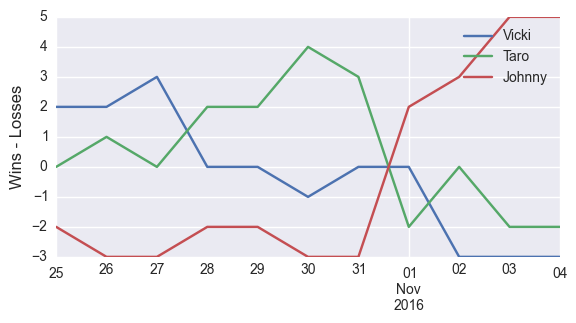
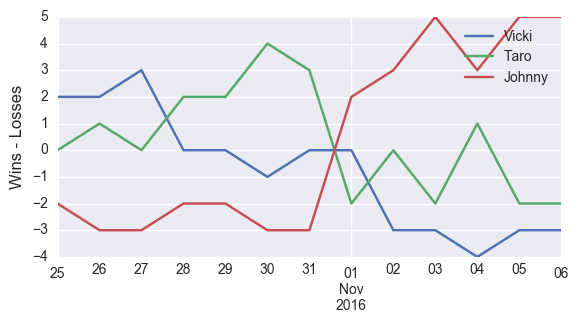
update 11/6

diff --git a/index.html b/index.html
@@ -35,8 +35,7 @@
 <a id="the-bet-is-on" class="anchor" href="#the-bet-is-on" aria-hidden="true"><span aria-hidden="true" class="octicon octicon-link"></span></a>The bet is on.</h1>
 
 <h1>
-
-<a id="current-winner-of-2016-17-season" class="anchor" href="#current-winner-of-2016-17-season" aria-hidden="true"><span aria-hidden="true" class="octicon octicon-link"></span></a>Current winner of 2016-17 Season (as of 11/5/2016):</h1>
+<a id="current-winner-of-2016-17-season" class="anchor" href="#current-winner-of-2016-17-season" aria-hidden="true"><span aria-hidden="true" class="octicon octicon-link"></span></a>Current winner of 2016-17 Season (as of 11/6/2016):</h1>
 
 <h2>
 <a id="none" class="anchor" href="#none" aria-hidden="true"><span aria-hidden="true" class="octicon octicon-link"></span></a><strong>Johnny</strong>
@@ -45,27 +44,23 @@
 <h2>
 <a id="johnny" class="anchor" href="#johnny" aria-hidden="true"><span aria-hidden="true" class="octicon octicon-link"></span></a>Johnny</h2>
 
-
-<p>Wins: 27<br>
-Losses: 24<br>
-Remaining wins available: 653</p>
+<p>Wins: 31<br>
+Losses: 26<br>
+Remaining wins available: 648</p>
 
 <h2>
 <a id="taro" class="anchor" href="#taro" aria-hidden="true"><span aria-hidden="true" class="octicon octicon-link"></span></a>Taro</h2>
 
-
-
-<p>Wins: 27<br>
-Losses: 26<br>
-Remaining wins available: 647</p>
+<p>Wins: 28<br>
+Losses: 30<br>
+Remaining wins available: 642</p>
 
 <h2>
 <a id="vicki" class="anchor" href="#vicki" aria-hidden="true"><span aria-hidden="true" class="octicon octicon-link"></span></a>Vicki</h2>
 
-
-<p>Wins: 24<br>
-Losses: 28<br>
-Remaining wins available: 651</p>
+<p>Wins: 27<br>
+Losses: 30<br>
+Remaining wins available: 648</p>
 
 <img src='pythoncode/win_percent.png' alt='Winning Percentage Over Time'>
 <h1>
